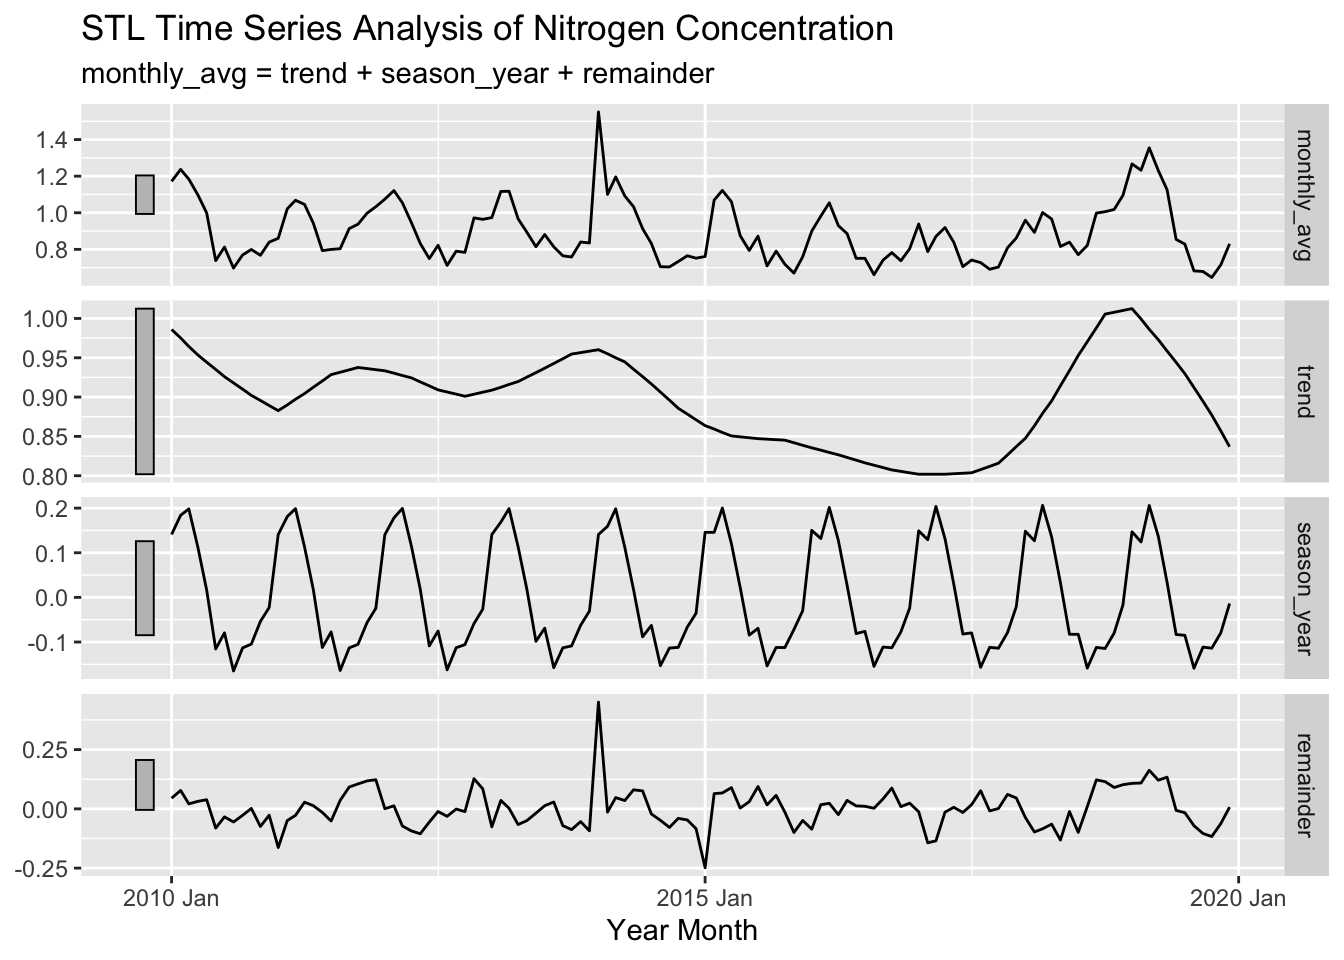
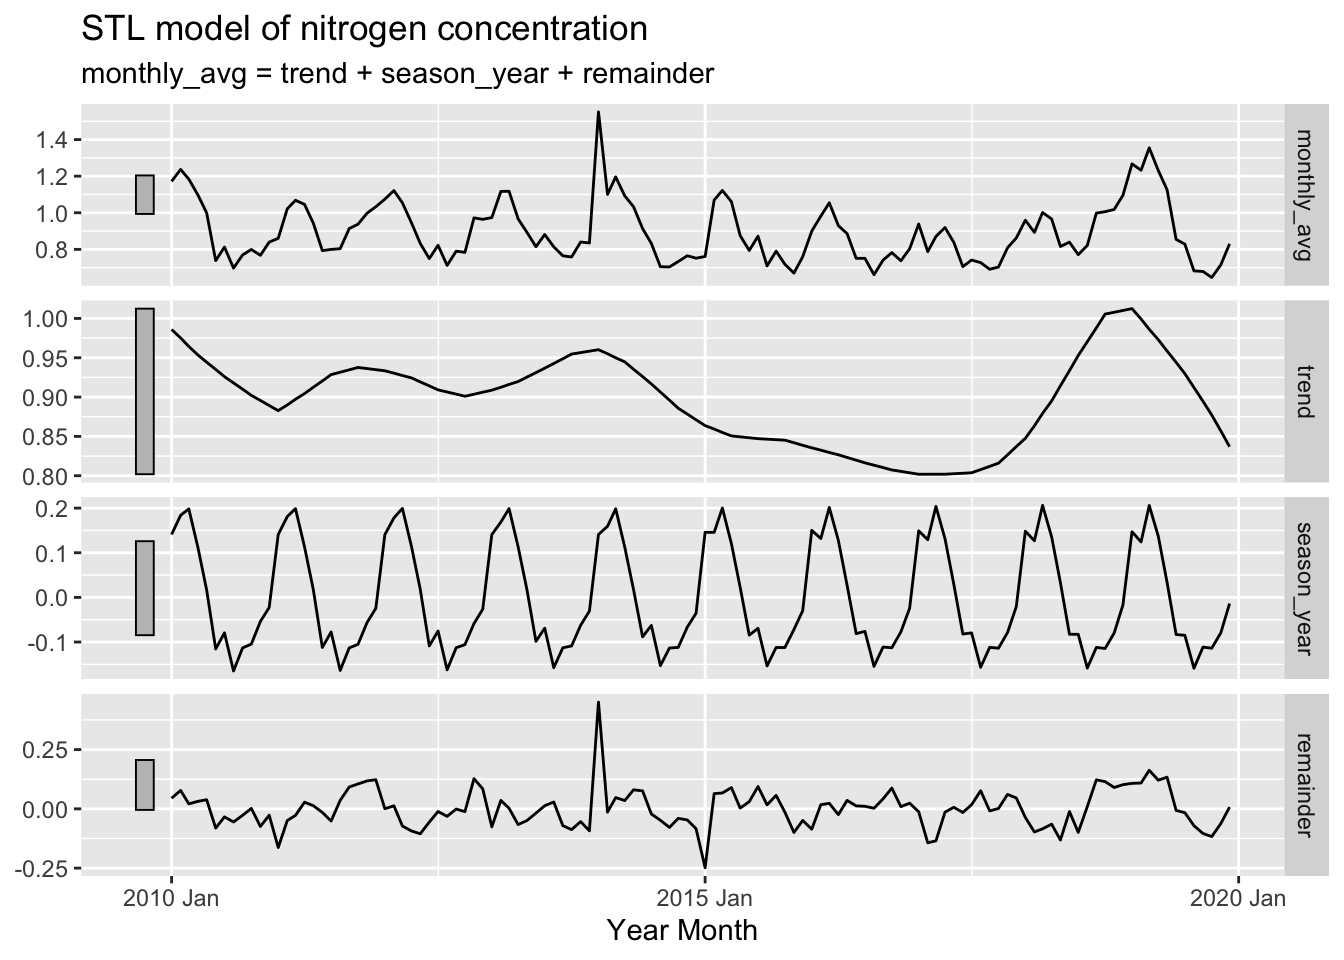
bro

Changed region(s): [[0.0938, 0.0, 0.6562, 0.0625]]

diff --git a/docs/blog/2023-12-12-post/index.html b/docs/blog/2023-12-12-post/index.html
@@ -10,7 +10,7 @@
 <meta name="dcterms.date" content="2023-12-12">
 <meta name="description" content="This analysis seeks to better understand the seasonality of nitrogen and phosphorus concentration in Chesapeake Bay tidal regions, in addition to any non-seasonal trends since 2010.">
 
-<title>Linus Ghanadan - Time series analysis of nitrogen and phosphorus concentrations in Chesapeake Bay tidal regions</title>
+<title>Linus Ghanadan - Time series analysis of nitrogen and phosphorus in Chesapeake Bay tidal regions</title>
 <style>
 code{white-space: pre-wrap;}
 span.smallcaps{font-variant: small-caps;}
@@ -160,7 +160,7 @@ div.csl-indent {
 <header id="title-block-header" class="quarto-title-block default page-columns page-full">
   <div class="quarto-title-banner page-columns page-full">
     <div class="quarto-title column-body">
-      <h1 class="title">Time series analysis of nitrogen and phosphorus concentrations in Chesapeake Bay tidal regions</h1>
+      <h1 class="title">Time series analysis of nitrogen and phosphorus in Chesapeake Bay tidal regions</h1>
                   <div>
         <div class="description">
           This analysis seeks to better understand the seasonality of nitrogen and phosphorus concentration in Chesapeake Bay tidal regions, in addition to any non-seasonal trends since 2010.
@@ -395,14 +395,14 @@ div.csl-indent {
 <div class="cell">
 <details>
 <summary>Code</summary>
-<div class="sourceCode cell-code" id="cb6"><pre class="sourceCode r code-with-copy"><code class="sourceCode r"><span id="cb6-1"><a href="#cb6-1" aria-hidden="true" tabindex="-1"></a><span class="co"># Conduct STL time series analysis for nitrogen with two-year seasons, and extract components</span></span>
+<div class="sourceCode cell-code" id="cb6"><pre class="sourceCode r code-with-copy"><code class="sourceCode r"><span id="cb6-1"><a href="#cb6-1" aria-hidden="true" tabindex="-1"></a><span class="co"># Conduct STL for nitrogen with two-year seasons, and extract components</span></span>
 <span id="cb6-2"><a href="#cb6-2" aria-hidden="true" tabindex="-1"></a>nitr_decomp <span class="ot">&lt;-</span> nitr_monthly_avgs_ts <span class="sc">%&gt;%</span></span>
 <span id="cb6-3"><a href="#cb6-3" aria-hidden="true" tabindex="-1"></a>  fabletools<span class="sc">::</span><span class="fu">model</span>(feasts<span class="sc">::</span><span class="fu">STL</span>(monthly_avg, <span class="at">t.window =</span> <span class="dv">24</span>)) <span class="sc">%&gt;%</span> </span>
 <span id="cb6-4"><a href="#cb6-4" aria-hidden="true" tabindex="-1"></a>  generics<span class="sc">::</span><span class="fu">components</span>()</span>
 <span id="cb6-5"><a href="#cb6-5" aria-hidden="true" tabindex="-1"></a></span>
-<span id="cb6-6"><a href="#cb6-6" aria-hidden="true" tabindex="-1"></a><span class="co"># Plot STL time series analysis of nitrogen concentration</span></span>
+<span id="cb6-6"><a href="#cb6-6" aria-hidden="true" tabindex="-1"></a><span class="co"># Plot STL model</span></span>
 <span id="cb6-7"><a href="#cb6-7" aria-hidden="true" tabindex="-1"></a><span class="fu">autoplot</span>(nitr_decomp) <span class="sc">+</span></span>
-<span id="cb6-8"><a href="#cb6-8" aria-hidden="true" tabindex="-1"></a>  <span class="fu">labs</span>(<span class="at">title =</span> <span class="st">"STL Time Series Analysis of Nitrogen Concentration"</span>, <span class="at">x =</span> <span class="st">"Year Month"</span>)</span></code><button title="Copy to Clipboard" class="code-copy-button"><i class="bi"></i></button></pre></div>
+<span id="cb6-8"><a href="#cb6-8" aria-hidden="true" tabindex="-1"></a>  <span class="fu">labs</span>(<span class="at">title =</span> <span class="st">"STL model of nitrogen concentration"</span>, <span class="at">x =</span> <span class="st">"Year Month"</span>)</span></code><button title="Copy to Clipboard" class="code-copy-button"><i class="bi"></i></button></pre></div>
 </details>
 <div class="cell-output-display">
 <p><img src="index_files/figure-html/unnamed-chunk-6-1.png" class="img-fluid" width="672"></p>
@@ -412,14 +412,14 @@ div.csl-indent {
 <div class="cell">
 <details>
 <summary>Code</summary>
-<div class="sourceCode cell-code" id="cb7"><pre class="sourceCode r code-with-copy"><code class="sourceCode r"><span id="cb7-1"><a href="#cb7-1" aria-hidden="true" tabindex="-1"></a><span class="co"># Conduct STL time series analysis for phosphorus with two-year seasons, and extract components</span></span>
+<div class="sourceCode cell-code" id="cb7"><pre class="sourceCode r code-with-copy"><code class="sourceCode r"><span id="cb7-1"><a href="#cb7-1" aria-hidden="true" tabindex="-1"></a><span class="co"># Conduct STL for phosphorus with two-year seasons, and extract components</span></span>
 <span id="cb7-2"><a href="#cb7-2" aria-hidden="true" tabindex="-1"></a>phos_decomp <span class="ot">&lt;-</span> phos_monthly_avgs_ts <span class="sc">%&gt;%</span></span>
 <span id="cb7-3"><a href="#cb7-3" aria-hidden="true" tabindex="-1"></a>  fabletools<span class="sc">::</span><span class="fu">model</span>(feasts<span class="sc">::</span><span class="fu">STL</span>(monthly_avg, <span class="at">t.window =</span> <span class="dv">24</span>)) <span class="sc">%&gt;%</span> </span>
 <span id="cb7-4"><a href="#cb7-4" aria-hidden="true" tabindex="-1"></a>  generics<span class="sc">::</span><span class="fu">components</span>()</span>
 <span id="cb7-5"><a href="#cb7-5" aria-hidden="true" tabindex="-1"></a></span>
-<span id="cb7-6"><a href="#cb7-6" aria-hidden="true" tabindex="-1"></a><span class="co"># Plot STL time series analysis</span></span>
+<span id="cb7-6"><a href="#cb7-6" aria-hidden="true" tabindex="-1"></a><span class="co"># Plot STL model</span></span>
 <span id="cb7-7"><a href="#cb7-7" aria-hidden="true" tabindex="-1"></a><span class="fu">autoplot</span>(phos_decomp) <span class="sc">+</span></span>
-<span id="cb7-8"><a href="#cb7-8" aria-hidden="true" tabindex="-1"></a>  <span class="fu">labs</span>(<span class="at">title =</span> <span class="st">"STL Time Series Analysis of Phosphorus Concentration"</span>, <span class="at">x =</span> <span class="st">"Year Month"</span>)</span></code><button title="Copy to Clipboard" class="code-copy-button"><i class="bi"></i></button></pre></div>
+<span id="cb7-8"><a href="#cb7-8" aria-hidden="true" tabindex="-1"></a>  <span class="fu">labs</span>(<span class="at">title =</span> <span class="st">"STL model of phosphorus concentration"</span>, <span class="at">x =</span> <span class="st">"Year Month"</span>)</span></code><button title="Copy to Clipboard" class="code-copy-button"><i class="bi"></i></button></pre></div>
 </details>
 <div class="cell-output-display">
 <p><img src="index_files/figure-html/unnamed-chunk-7-1.png" class="img-fluid" width="672"></p>
@@ -479,7 +479,7 @@ div.csl-indent {
 <span id="cb10-2"><a href="#cb10-2" aria-hidden="true" tabindex="-1"></a>nitr_season_reg <span class="ot">&lt;-</span> <span class="fu">lm</span>(monthly_avg <span class="sc">~</span> season_year, <span class="at">data =</span> nitr_decomp)</span>
 <span id="cb10-3"><a href="#cb10-3" aria-hidden="true" tabindex="-1"></a></span>
 <span id="cb10-4"><a href="#cb10-4" aria-hidden="true" tabindex="-1"></a><span class="co"># Print the formatted regression table</span></span>
-<span id="cb10-5"><a href="#cb10-5" aria-hidden="true" tabindex="-1"></a><span class="fu">stargazer</span>(nitr_season_reg, <span class="at">title =</span> <span class="st">"Regression of monthly nitrogen concentration against seasonal trend component"</span>, <span class="at">align =</span> <span class="cn">TRUE</span>, <span class="at">digits =</span> <span class="dv">3</span>, <span class="at">type =</span> <span class="st">'html'</span>, <span class="at">notes.append =</span> <span class="cn">FALSE</span>, <span class="at">notes =</span> <span class="st">"[0.*]; [0.**]; [0.***]"</span>)</span></code><button title="Copy to Clipboard" class="code-copy-button"><i class="bi"></i></button></pre></div>
+<span id="cb10-5"><a href="#cb10-5" aria-hidden="true" tabindex="-1"></a><span class="fu">stargazer</span>(nitr_season_reg, <span class="at">title =</span> <span class="st">"Regression of monthly nitrogen concentration against seasonal trend component"</span>, <span class="at">align =</span> <span class="cn">TRUE</span>, <span class="at">digits =</span> <span class="dv">3</span>, <span class="at">type =</span> <span class="st">'html'</span>, <span class="at">notes.append =</span> <span class="cn">FALSE</span>, <span class="at">notes =</span> <span class="st">"*p&lt;0.1; **p&lt;0.05; ***p&lt;0.001]"</span>)</span></code><button title="Copy to Clipboard" class="code-copy-button"><i class="bi"></i></button></pre></div>
 </details>
 
 <table style="text-align:center">
@@ -609,7 +609,7 @@ F Statistic
 <em>Note:</em>
 </td>
 <td style="text-align:right">
-[0.*]; [0.**]; [0.***]
+<em>p&lt;0.1; <strong>p&lt;0.05; </strong></em>p&lt;0.001]
 </td>
 </tr>
 
@@ -1138,16 +1138,16 @@ U.S. Environmental Protection Agency. 2023. <span>“Chesapeake <span>Bay</span>
 </div>
 </div></section><section class="quarto-appendix-contents"><h2 class="anchored quarto-appendix-heading">Citation</h2><div><div class="quarto-appendix-secondary-label">BibTeX citation:</div><pre class="sourceCode code-with-copy quarto-appendix-bibtex"><code class="sourceCode bibtex">@online{ghanadan2023,
   author = {Ghanadan, Linus},
-  title = {Time Series Analysis of Nitrogen and Phosphorus
-    Concentrations in {Chesapeake} {Bay} Tidal Regions},
+  title = {Time Series Analysis of Nitrogen and Phosphorus in
+    {Chesapeake} {Bay} Tidal Regions},
   date = {2023-12-12},
   url = {https://linusghanadan.github.io/blog/2023-12-12-post/},
   langid = {en}
 }
 </code><button title="Copy to Clipboard" class="code-copy-button"><i class="bi"></i></button></pre><div class="quarto-appendix-secondary-label">For attribution, please cite this work as:</div><div id="ref-ghanadan2023" class="csl-entry quarto-appendix-citeas" role="listitem">
 Ghanadan, Linus. 2023. <span>“Time Series Analysis of Nitrogen and
-Phosphorus Concentrations in Chesapeake Bay Tidal Regions.”</span>
-December 12, 2023. <a href="https://linusghanadan.github.io/blog/2023-12-12-post/">https://linusghanadan.github.io/blog/2023-12-12-post/</a>.
+Phosphorus in Chesapeake Bay Tidal Regions.”</span> December 12, 2023.
+<a href="https://linusghanadan.github.io/blog/2023-12-12-post/">https://linusghanadan.github.io/blog/2023-12-12-post/</a>.
 </div></div></section></div></main> <!-- /main -->
 <script id="quarto-html-after-body" type="application/javascript">
 window.document.addEventListener("DOMContentLoaded", function (event) {

diff --git a/docs/blog.html b/docs/blog.html
@@ -165,14 +165,14 @@ ul.task-list li input[type="checkbox"] {
 
 <div class="quarto-listing quarto-listing-container-default" id="listing-listing">
 <div class="list quarto-listing-default">
-<div class="quarto-post image-right" data-index="0" data-categories="Statistical Analysis,Water Pollution,R" data-listing-date-sort="1702357200000" data-listing-file-modified-sort="1703627070831" data-listing-date-modified-sort="NaN" data-listing-reading-time-sort="17">
+<div class="quarto-post image-right" data-index="0" data-categories="Statistical Analysis,Water Pollution,R" data-listing-date-sort="1702357200000" data-listing-file-modified-sort="1703628714065" data-listing-date-modified-sort="NaN" data-listing-reading-time-sort="17">
 <div class="thumbnail">
 <p><a href="./blog/2023-12-12-post/index.html"> <img src="./blog/2023-12-12-post/chesapeake-bay.jpeg" class="thumbnail-image"> </a></p>
 </div>
 <div class="body">
 <a href="./blog/2023-12-12-post/index.html">
 <h3 class="no-anchor listing-title">
-Time series analysis of nitrogen and phosphorus concentrations in Chesapeake Bay tidal regions
+Time series analysis of nitrogen and phosphorus in Chesapeake Bay tidal regions
 </h3>
 <div class="listing-subtitle">
 
